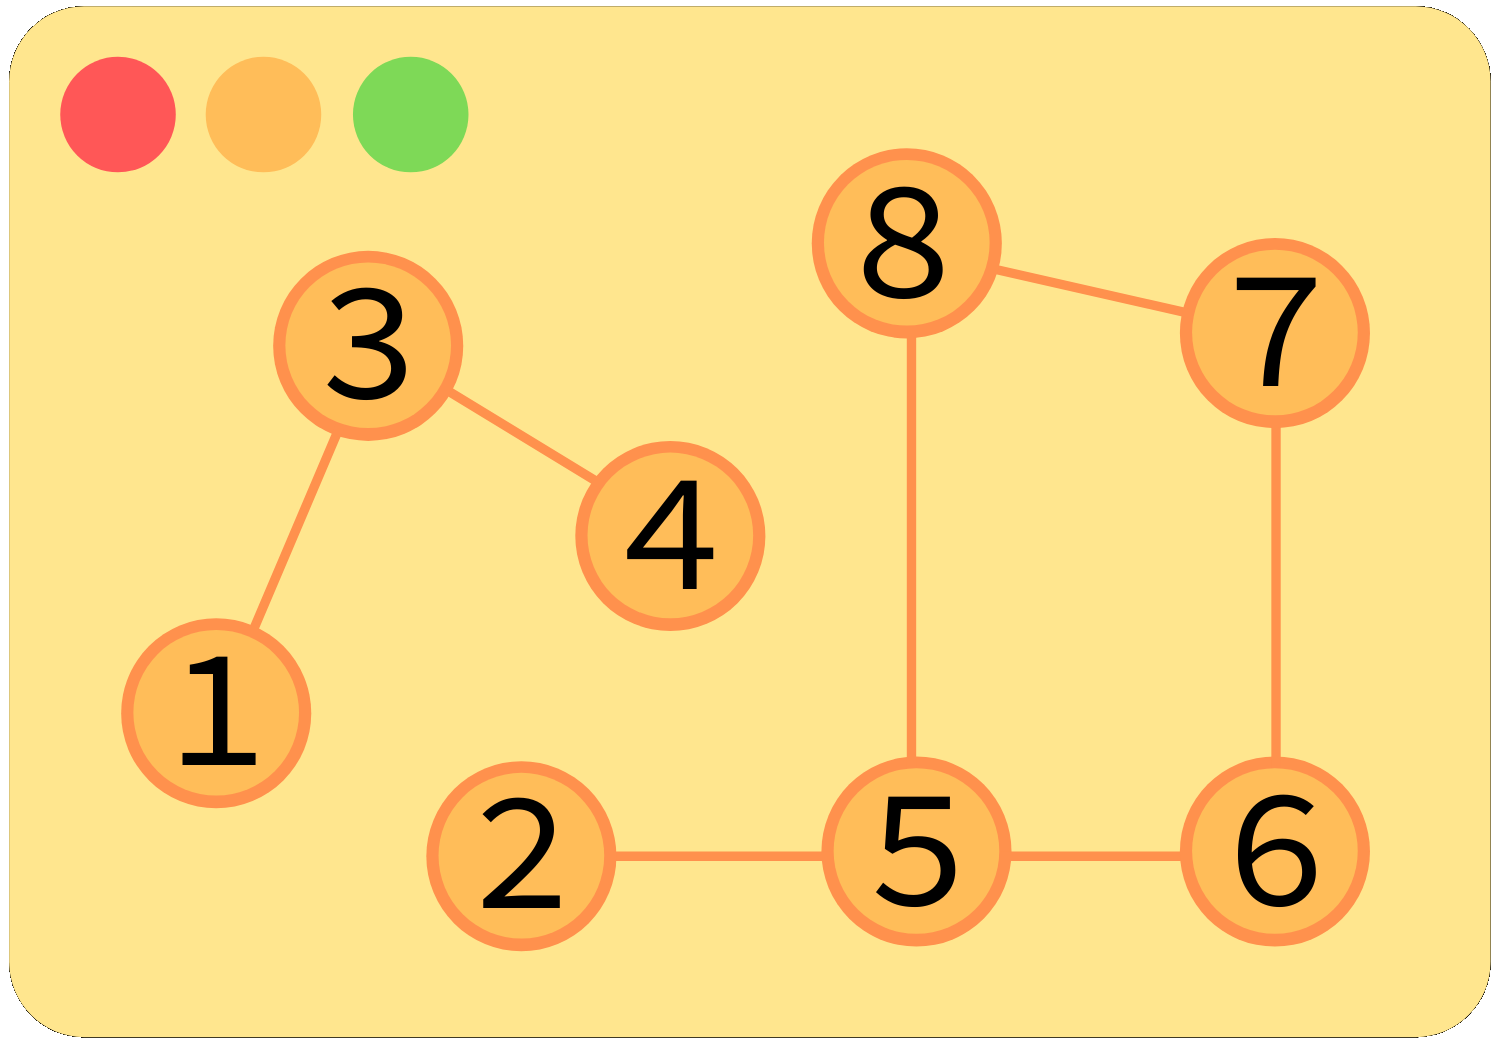
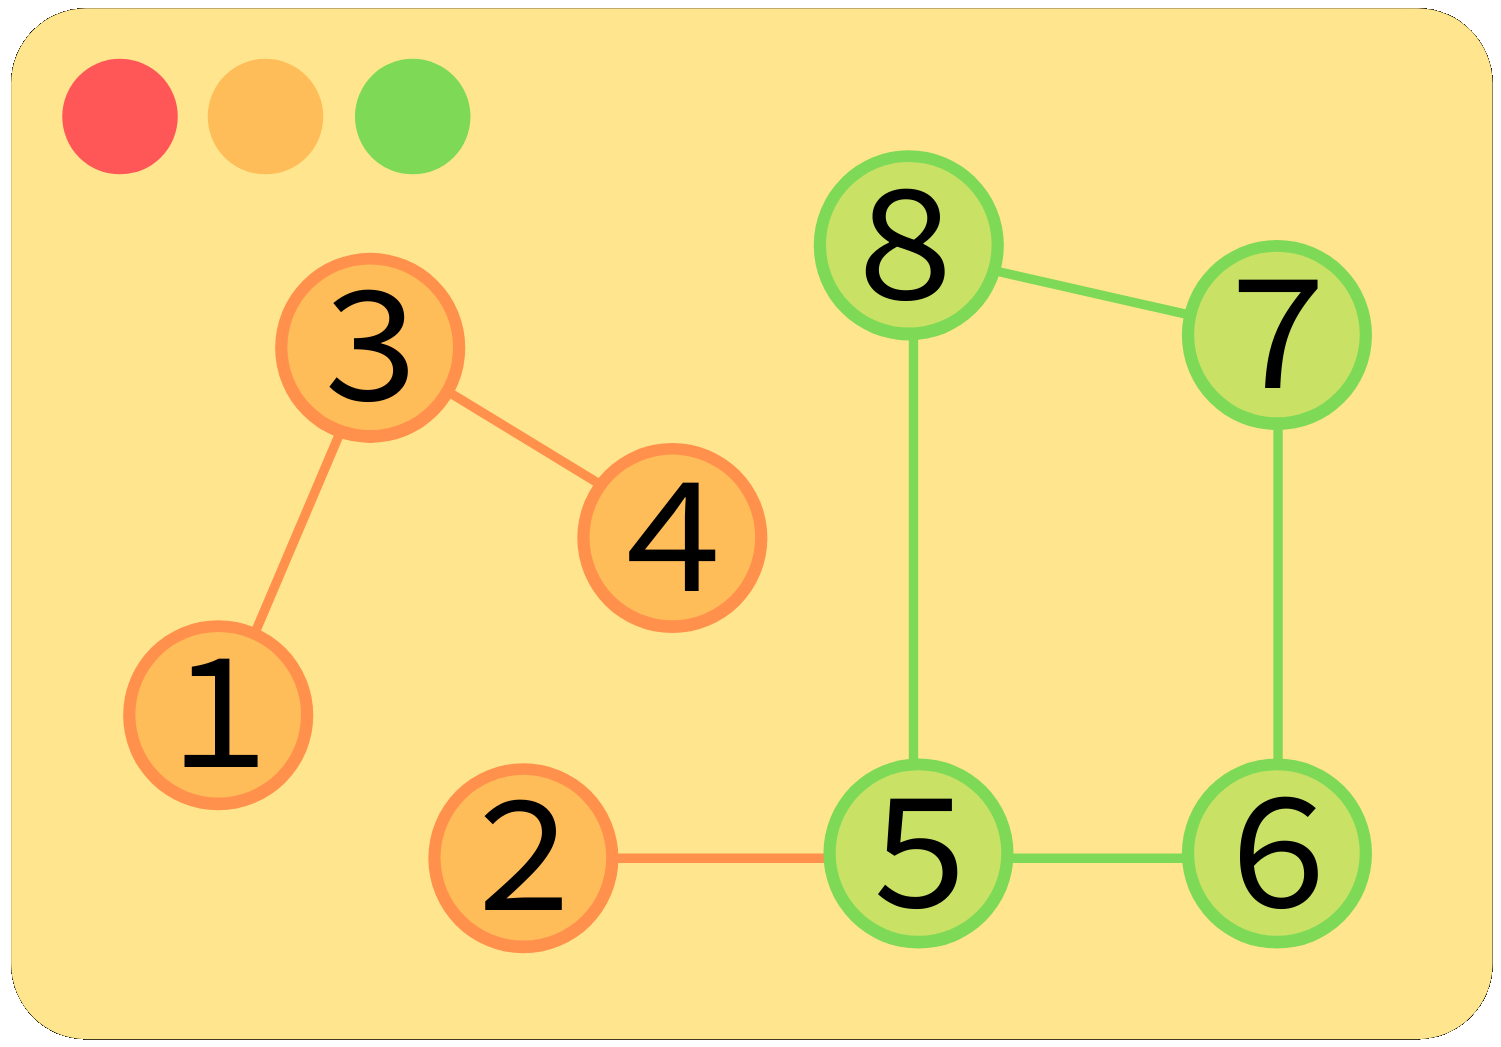
.

diff --git a/Graphs/Graphs.md b/Graphs/Graphs.md
@@ -12,3 +12,8 @@
     <code>G05.cpp</code> <code>G05.py</code> <code>G06.cpp</code> <code>G06.py</code> <br>
     <img src="Images/Graph03.png" width="400">
 </p>
+
+<p align="center"> 
+    <code>G07.cpp</code> <code>G07.py</code> <code>G08.cpp</code> <code>G08.py</code> <br>
+    <img src="Images/Graph04.png" width="400">
+</p>
